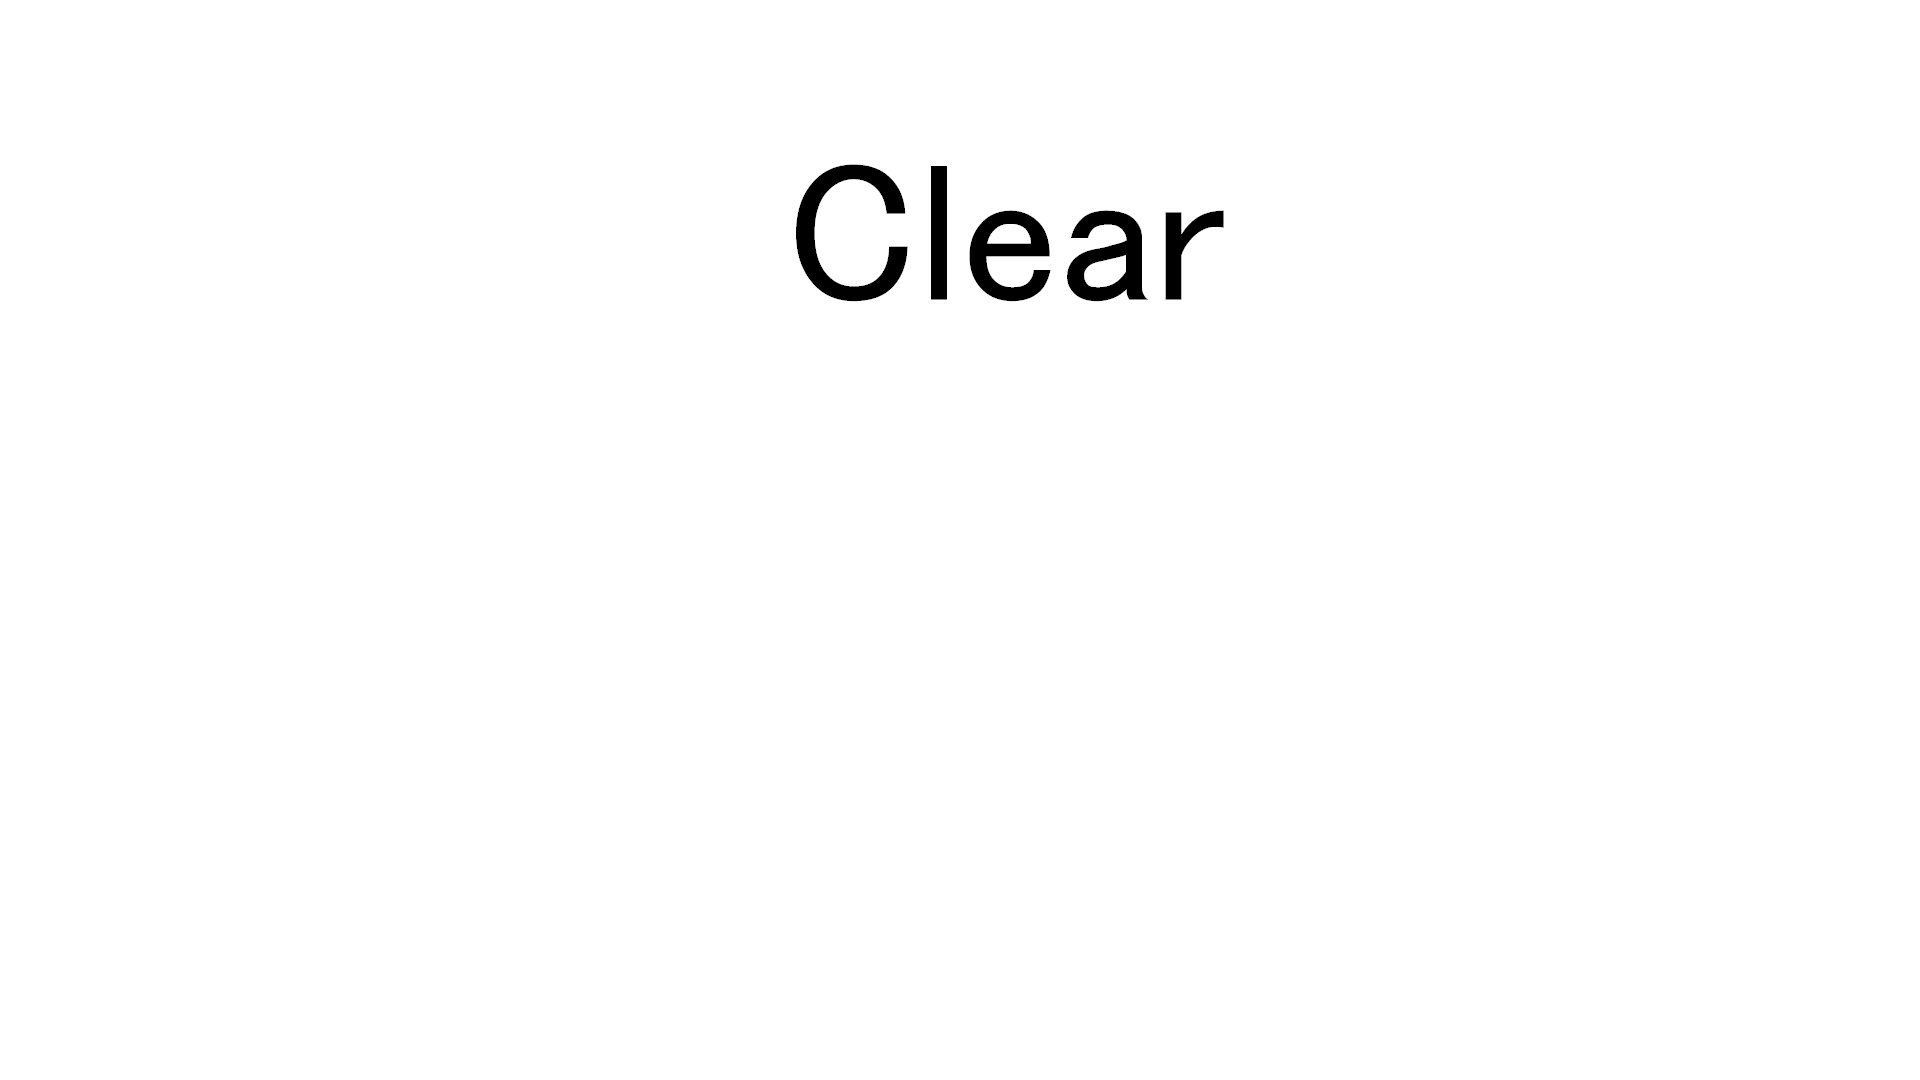
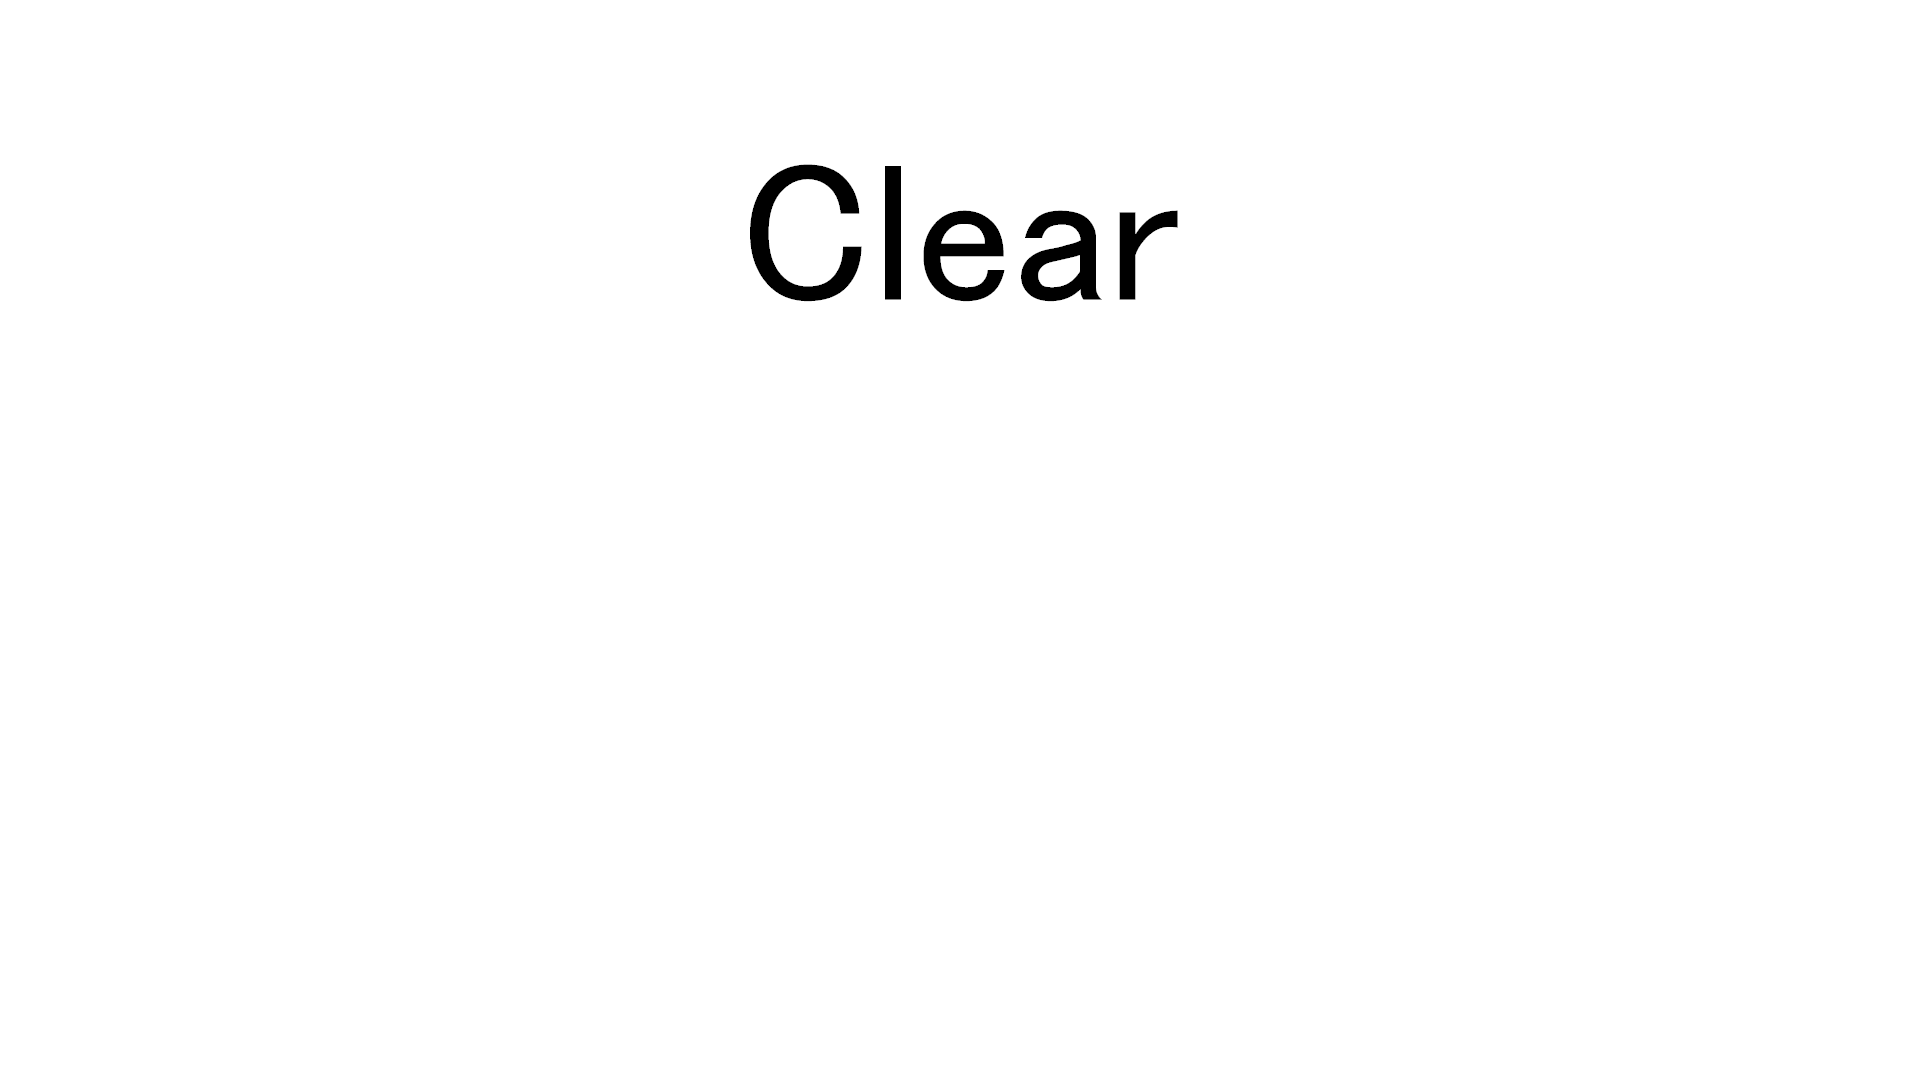
画像の調整

Changed region(s): [[0.375, 0.1528, 0.6562, 0.275]]

diff --git a/project/application/Scenes/State/Clear/GameClearState.cpp b/project/application/Scenes/State/Clear/GameClearState.cpp
@@ -7,6 +7,10 @@ void GameClearState::Init()
 	clearSprite->TextureHandle = TextureManager::GetInstance()->LoadTexture("project/resources/Clear.png");
 	clear.Init();
 
+	texture = std::make_unique<Sprite>();
+	texture->TextureHandle = TextureManager::GetInstance()->LoadTexture("project/resources/ATuto.png");
+	texture->Init({ 0.0f,0.0f }, { 0.0f,720.0f }, { 1280.0f,0.0f }, { 1280.0f,720.0f });
+
 	skydome_ = Model::CreateModelFromObj("project/resources/TitleSkyDome", "TitleSkyDome.obj");
 
 	stressBar = std::make_unique<Sprite>();
@@ -20,6 +24,8 @@ void GameClearState::Init()
 	stressMeter = std::make_unique<Sprite>();
 	stressMeter->Init({ 0.0f,0.0f }, { 0.0f,108.0f }, { 445.0f,0.0f }, { 445.0f,108.0f });
 	stressMeter->TextureHandle = TextureManager::GetInstance()->LoadTexture("project/resources/StressMeter.png");
+
+
 
 }
 
@@ -52,6 +58,7 @@ void GameClearState::Update()
 void GameClearState::Draw()
 {
 	clearSprite->RendererDraw(clear);
+	texture->RendererDraw(clear);
 	skydome_->RendererDraw(clear);
 #ifndef NDEBUG
 	maxStressBar->RendererDraw(clear);

diff --git a/project/application/Scenes/State/GameOver/GameOverState.cpp b/project/application/Scenes/State/GameOver/GameOverState.cpp
@@ -8,6 +8,10 @@ void GameOverState::Init()
 	gameOverSprite->Init({ 0.0f,0.0f }, { 0.0f,720.0f }, { 1280.0f,0.0f }, { 1280.0f,720.0f });
 	gameOverSprite->TextureHandle = TextureManager::GetInstance()->LoadTexture("project/resources/GameOver.png");
 	gameOver.Init();
+
+	texture = std::make_unique<Sprite>();
+	texture->TextureHandle = TextureManager::GetInstance()->LoadTexture("project/resources/ATuto.png");
+	texture->Init({ 0.0f,0.0f }, { 0.0f,720.0f }, { 1280.0f,0.0f }, { 1280.0f,720.0f });
 }
 
 void GameOverState::Update()
@@ -20,17 +24,11 @@ void GameOverState::Update()
 	}
 
 
-	//if (Input::pushKey(DIK_SPACE)) {
-	//	//ifの条件は後で変える
-	//	if (StateNo != GameStateNo::TITLE) {
-	//		StateNo = GameStateNo::TITLE;
-	//	}
-	//}
-
 }
 
 void GameOverState::Draw()
 {
 	gameOverSprite->RendererDraw(gameOver);
+	texture->RendererDraw(gameOver);
 }
 

diff --git a/project/application/Scenes/State/Clear/GameClearState.h b/project/application/Scenes/State/Clear/GameClearState.h
@@ -20,6 +20,7 @@ private:
 	std::unique_ptr<Sprite> clearSprite;
 	WorldTransform clear;
 	Model* skydome_ = nullptr;
+	std::unique_ptr<Sprite>texture;
 
 
 	std::unique_ptr<Sprite> stressBar;

diff --git a/project/application/Scenes/State/GameOver/GameOverState.h b/project/application/Scenes/State/GameOver/GameOverState.h
@@ -19,5 +19,6 @@ private:
 
 	std::unique_ptr<Sprite> gameOverSprite;
 	WorldTransform gameOver;
+	std::unique_ptr<Sprite>texture;
 	
 };
